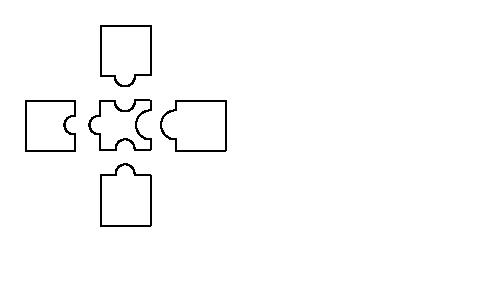
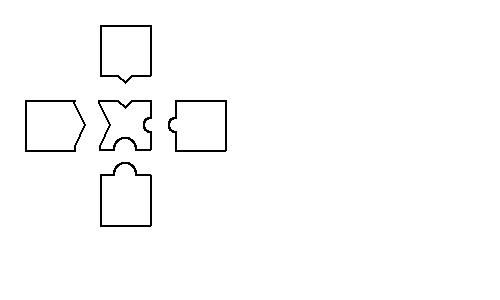
Added another function to call angle/arc randomly.

Changed region(s): [[0.12, 0.33, 0.36, 0.51], [0.21, 0.24, 0.3, 0.3], [0.21, 0.54, 0.27, 0.6]]

diff --git a/backend/model/generate_training_data.py b/backend/model/generate_training_data.py
@@ -49,22 +49,22 @@ class Piece:
     def add_side(self, side):
         # Create a new jagged puzzle line for the side
         if side == "left":
-            self.left_side = self.create_random_line_coordinates((self.left_side[0][0], self.left_side[0][1]), self.piece_size, Piece.LEFT)
+            self.left_side = self.get_random_side_coordinates((self.left_side[0][0], self.left_side[0][1]), self.piece_size, Piece.LEFT)
             new_piece_side_data = Piece.move_shape(self.left_side, self.piece_padding, 180)
             new_side_data = self.left_side
             new_piece_location = (self.location[0]-self.piece_size[0]-self.piece_padding, self.location[1])
         elif side == "right":
-            self.right_side = self.create_random_line_coordinates((self.right_side[0][0], self.right_side[0][1]), self.piece_size, Piece.RIGHT)
+            self.right_side = self.get_random_side_coordinates((self.right_side[0][0], self.right_side[0][1]), self.piece_size, Piece.RIGHT)
             new_piece_side_data = Piece.move_shape(self.right_side, self.piece_padding, 0)
             new_side_data = self.right_side
             new_piece_location = (self.location[0]+self.piece_size[0]+self.piece_padding, self.location[1])
         elif side == "bottom":
-            self.bottom_side = self.create_random_line_coordinates((self.bottom_side[0][0], self.bottom_side[0][1]), self.piece_size, Piece.BOTTOM)
+            self.bottom_side = self.get_random_side_coordinates((self.bottom_side[0][0], self.bottom_side[0][1]), self.piece_size, Piece.BOTTOM)
             new_piece_side_data = Piece.move_shape(self.bottom_side, self.piece_padding, 90)
             new_side_data = self.bottom_side
             new_piece_location = (self.location[0], self.location[1]+self.piece_size[0]+self.piece_padding)
         elif side == "top":
-            self.top_side = self.create_random_line_coordinates((self.top_side[0][0], self.top_side[0][1]), self.piece_size, Piece.TOP)
+            self.top_side = self.get_random_side_coordinates((self.top_side[0][0], self.top_side[0][1]), self.piece_size, Piece.TOP)
             new_piece_side_data = Piece.move_shape(self.top_side, self.piece_padding, 270)
             new_side_data = self.top_side
             new_piece_location = (self.location[0], self.location[1]-self.piece_size[1]-self.piece_padding)
@@ -77,7 +77,14 @@ class Piece:
 
         return new_piece
 
-    def create_random_line_coordinates(self, starting_location, size, side):
+    def get_random_side_coordinates(self, starting_location, size, side):
+        if random.random() >= 0.5:
+            return self.get_random_arc_coordinates(starting_location, size, side)
+        else:
+            return self.get_random_angle_coordinates(starting_location, size, side)
+            
+
+    def get_random_arc_coordinates(self, starting_location, size, side):
         new_lines = []
         min_arc_size = 0.2
         max_arc_size = 0.5
@@ -86,28 +93,28 @@ class Piece:
 
         # Draw random line based on this piece's current location
         if side == Piece.TOP:
-            line_angle = 0
+            line_direction = 0
             arc_starting_angle = 270
             line_size = (size[1]-diameter)/2
         elif side == Piece.BOTTOM:
             starting_location = Piece.move_point(starting_location, self.piece_size[1], 0)
-            line_angle = 180
+            line_direction = 180
             arc_starting_angle = 90
             line_size = (size[1]-diameter)/2
         elif side == Piece.RIGHT:
-            line_angle = 90
+            line_direction = 90
             arc_starting_angle = 0
             line_size = (size[1]-diameter)/2
         elif side == Piece.LEFT:
             starting_location = Piece.move_point(starting_location, self.piece_size[0], 90)
-            line_angle = 270
+            line_direction = 270
             arc_starting_angle = 180
             line_size = (size[0]-diameter)/2
         else:
             raise Exception()
 
         # Draw line
-        last_line = self.create_line_coordinates(starting_location, line_size, line_angle)
+        last_line = self.create_line_coordinates(starting_location, line_size, line_direction)
         new_lines.append(last_line)
 
         # Draw arc
@@ -128,7 +135,51 @@ class Piece:
                 new_lines.append(last_line)
         
         # Draw Line
-        last_line = self.create_line_coordinates(last_line, line_size, line_angle)
+        last_line = self.create_line_coordinates(last_line, line_size, line_direction)
+        new_lines.append(last_line)
+
+        return new_lines
+
+    def get_random_angle_coordinates(self, starting_location, size, side):
+        new_lines = []
+        min_angle_size = 10
+        max_angle_size = 25
+        angle_size = (random.random()*(max_angle_size-min_angle_size)) + min_angle_size
+        min_angle_direction = 20
+        max_angle_direction = 75
+        angle_direction = (random.random()*(max_angle_direction-min_angle_direction)) + min_angle_direction
+        angle_length = (math.cos(math.radians(angle_direction)) * angle_size) * 2
+
+        # Draw random line based on this piece's current location
+        if side == Piece.TOP:
+            line_direction = 360
+            line_size = (size[1]-angle_length)/2
+        elif side == Piece.BOTTOM:
+            starting_location = Piece.move_point(starting_location, self.piece_size[1], 0)
+            line_direction = 540
+            line_size = (size[1]-angle_length)/2
+        elif side == Piece.RIGHT:
+            line_direction = 450
+            line_size = (size[1]-angle_length)/2
+        elif side == Piece.LEFT:
+            starting_location = Piece.move_point(starting_location, self.piece_size[0], 90)
+            line_direction = 630
+            line_size = (size[0]-angle_length)/2
+        else:
+            raise Exception()
+
+        # Draw line
+        last_line = self.create_line_coordinates(starting_location, line_size, line_direction)
+        new_lines.append(last_line)
+
+        # Draw angle
+        last_line = self.create_line_coordinates(last_line, angle_size, line_direction+angle_direction)
+        new_lines.append(last_line)
+        last_line = self.create_line_coordinates(last_line, angle_size, line_direction-angle_direction)
+        new_lines.append(last_line)
+        
+        # Draw Line
+        last_line = self.create_line_coordinates(last_line, line_size, line_direction)
         new_lines.append(last_line)
 
         return new_lines
